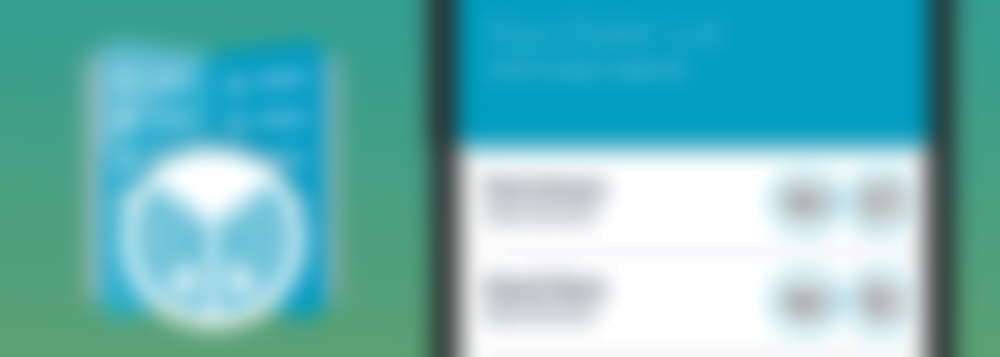
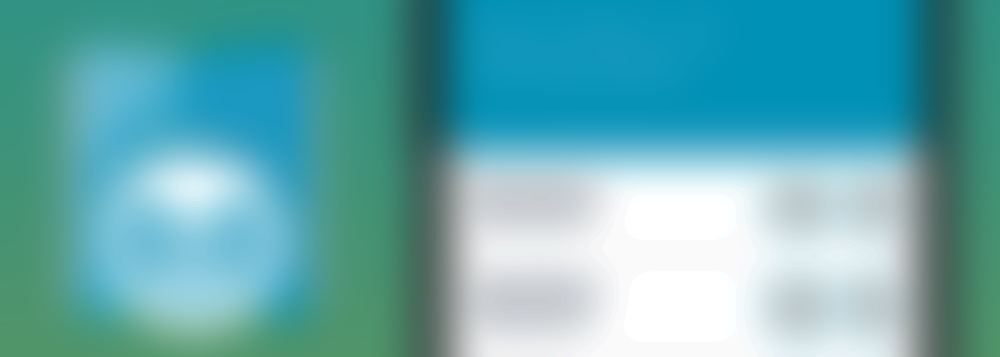
Update imagery for myodialer

Changed region(s): [[0.372, 0.0, 0.992, 1.0], [0.062, 0.1232, 0.341, 0.9244]]

diff --git a/index.html b/index.html
@@ -96,7 +96,7 @@
 
                     <div class="col-sm-6">
                         <div class="project-entry card-front">
-                            <a href="/projects/"><img src="/images/projects/thefront/thefront-preview.png" title="Projects" alt="Projects"/></a>
+                            <a href="/projects/"><img src="/images/projects/myodialer/myodialer-preview.png" title="Projects" alt="Projects"/></a>
                             <div class="project-desc">
                                 <h2><a href="/projects/">Projects</a></h2>
                                 <p>Stuff I've been working on, from software to hardware.</p>
